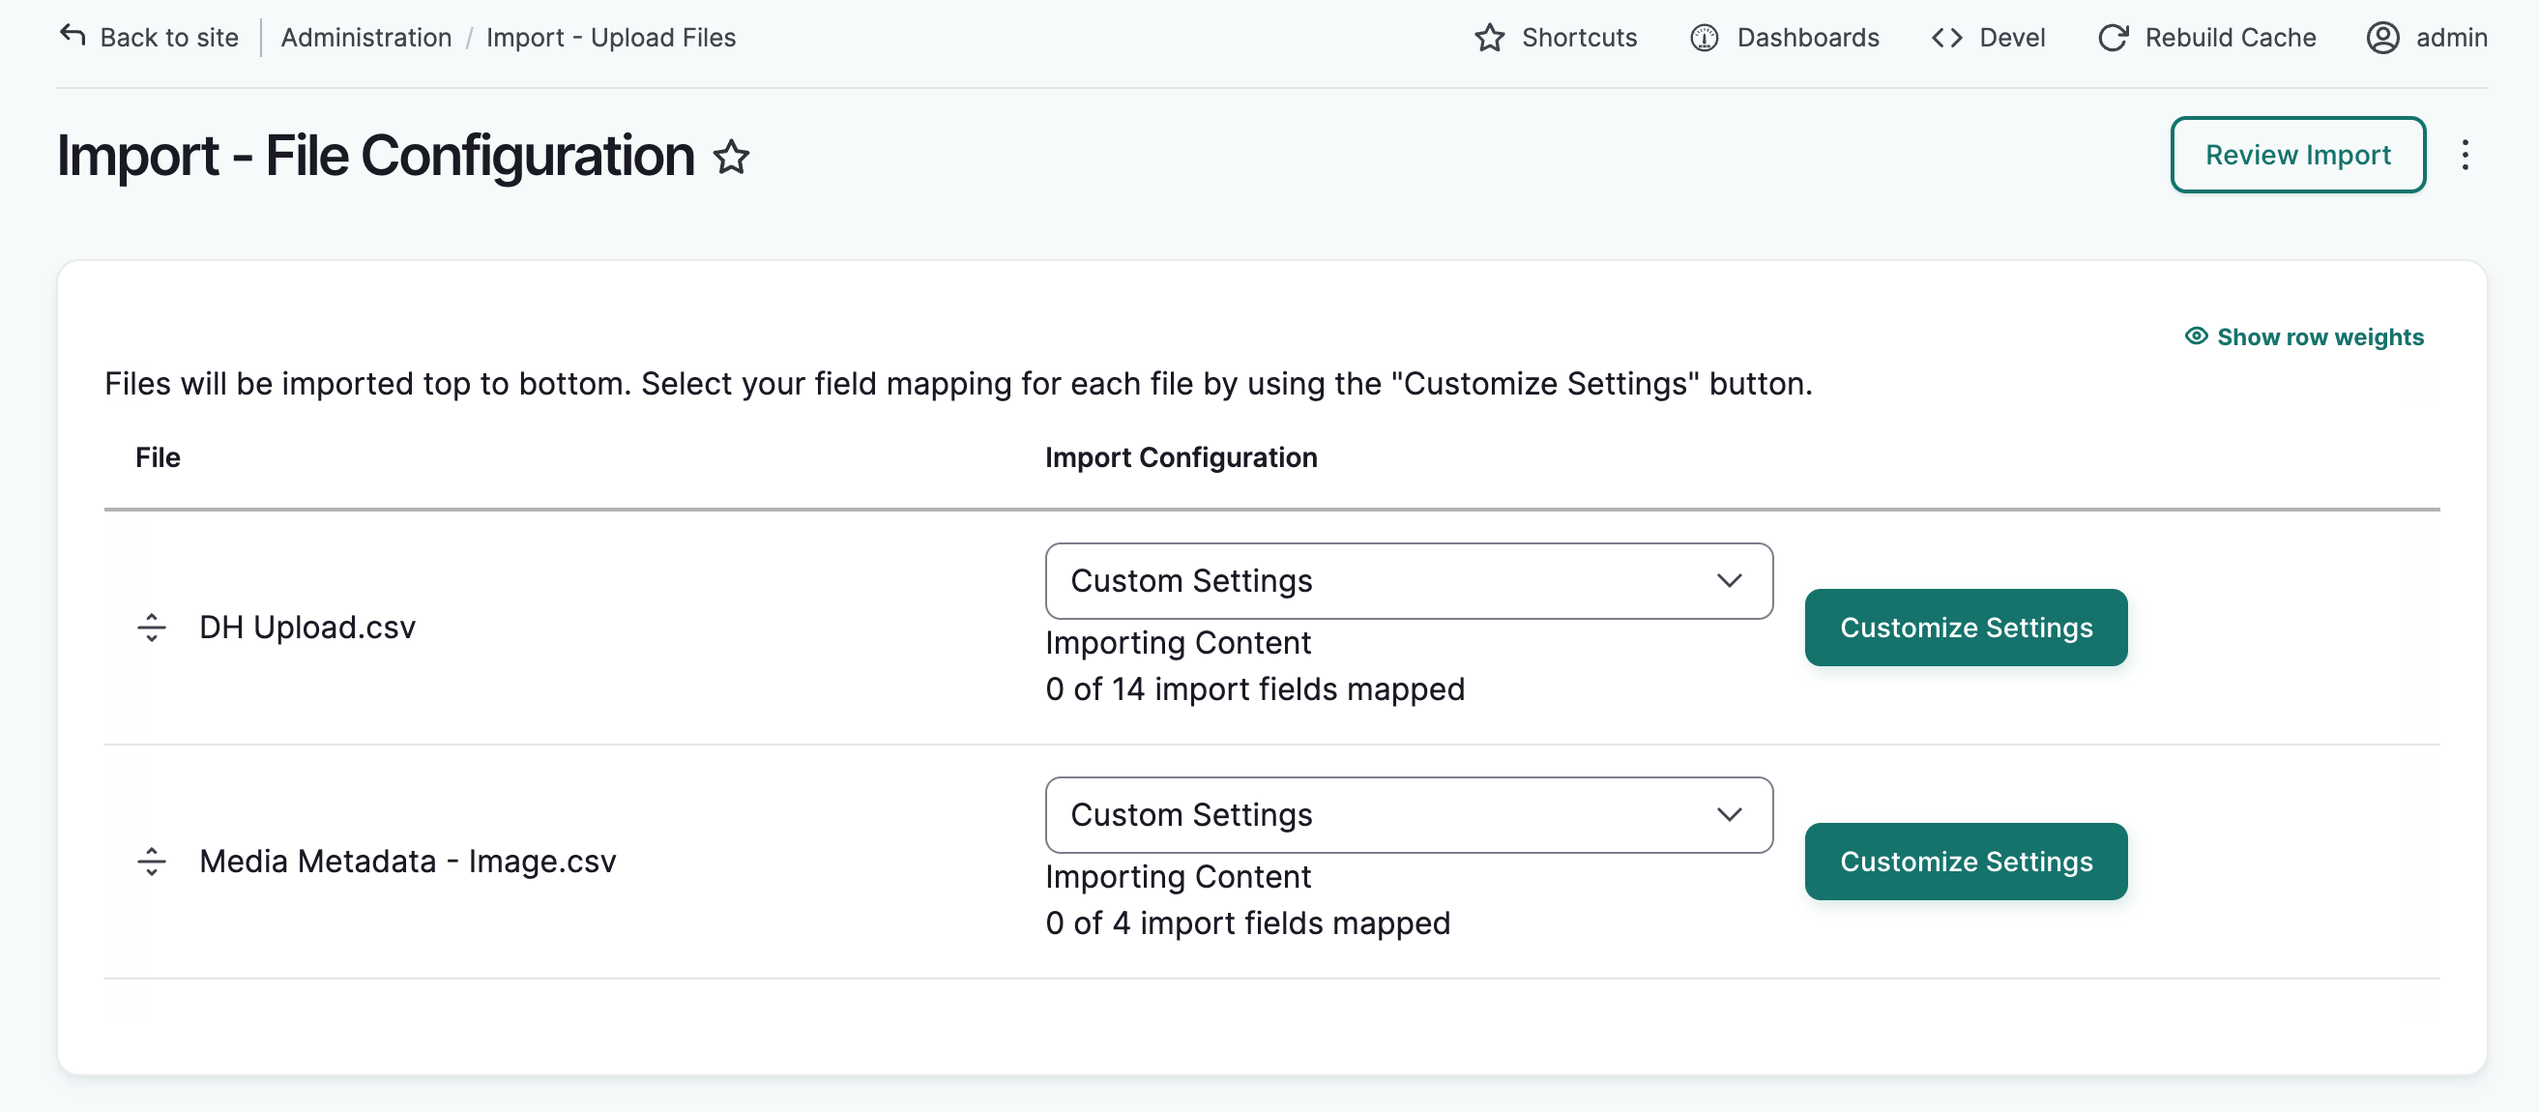
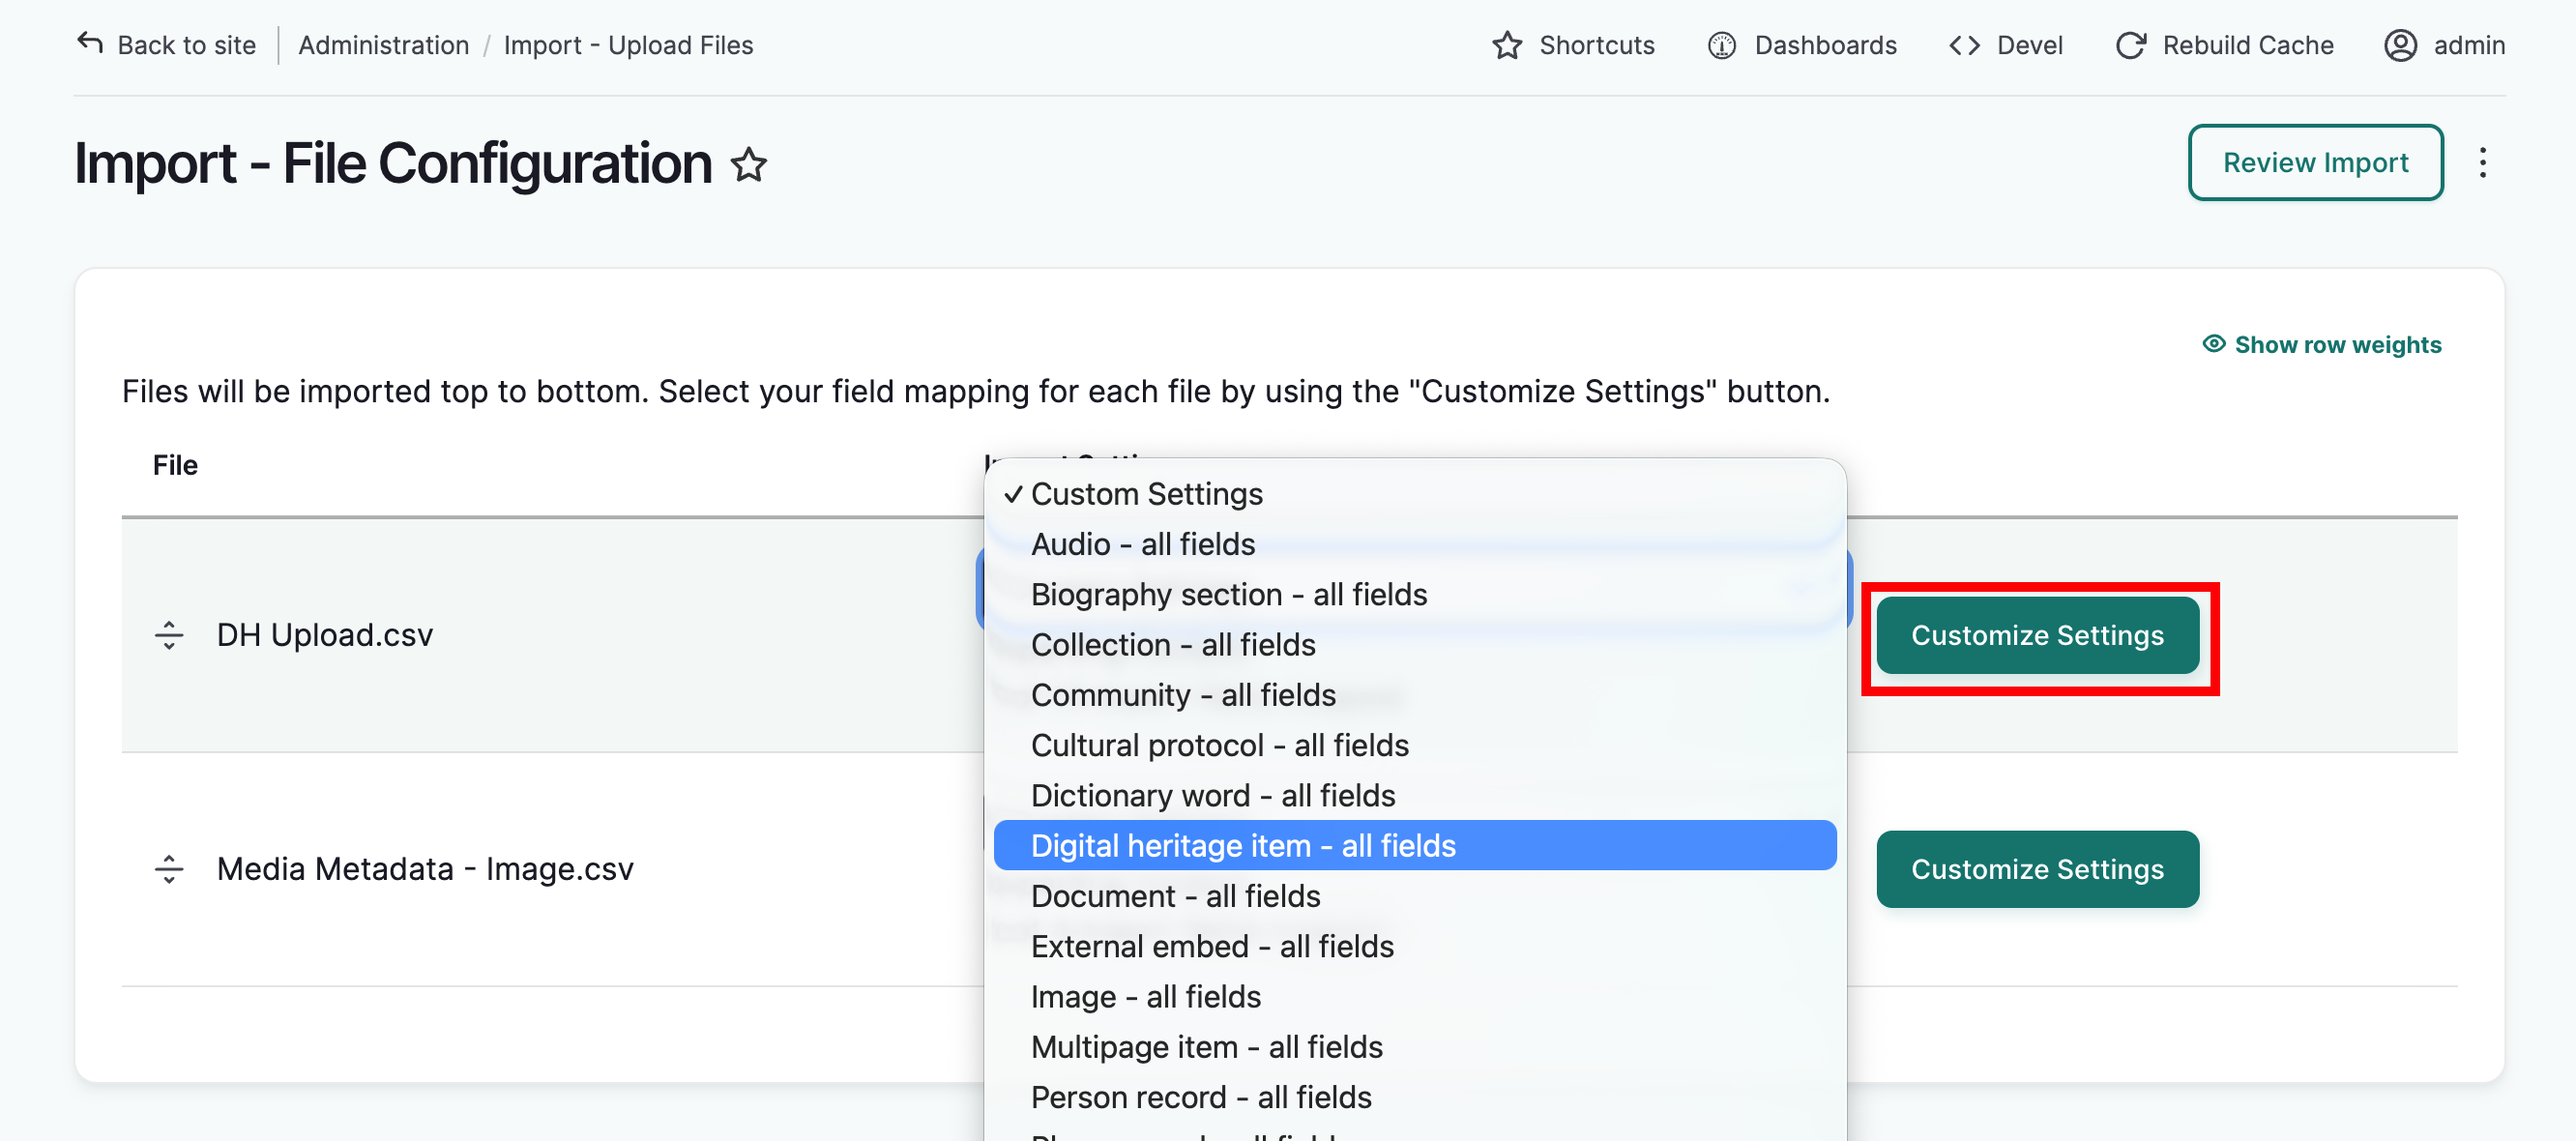
Requested changes

diff --git a/docs/roundtrip/ImportingContent.md b/docs/roundtrip/ImportingContent.md
@@ -8,12 +8,6 @@ tags:
 !!! Roles "User roles" 
     Administrator, Mukurtu manager, Roundtrip manager
 
-In Mukurtu 3, there were many different starting points for import, depending on the content type or media being imported, or if importing multiple content types/media.
-
-Metadata of a single content type went straight to an upload form with no configuration options, and multiple components required quite complex interrelated spreadsheets and media files properly arranged in zipped folders.
-
-Now there is a more flexible single import start point that can handle more complexity.
-
 This article will walk you through the general steps to import a .csv metadata sheet and accompanying media assets. While the basic steps are the same for each content type, there are specifics about each type that are discussed in dedicated articles. Please refer to the article for the content type you are importing for more detail:
 
 - [Import Digital Heritage Items](../roundtrip/DHItems.md) 
@@ -25,7 +19,7 @@ This article will walk you through the general steps to import a .csv metadata s
 - [Import Media](../roundtrip/ImportingNewMedia.md)
 
 !!!Requirement 
-    Users must either be a Mukurtu manager or a Mukurtu Roundtrip manager to access roundtrip tools. Users will only be able to upload according to their protocol permissions. See [Manage User from a Site-wide role](../users/manage-user-accounts-site-wide.md) for more information.
+    Users must either be a Mukurtu manager or a Roundtrip manager to access roundtrip tools. Users will only be able to upload according to their protocol permissions. See [Manage User from a Site-wide role](../users/manage-user-accounts-site-wide.md) for more information.
 
 ## Upload content
 
@@ -33,15 +27,12 @@ To import content, go to `/admin/import` or from the dashboard, select **Import*
 
 ![The dashboard with the import link highlighted.](../_embeds/import-content-01.png)
 
-The import page has two upload fields. The first field is for .csv sheets only. The second field is for media or binary files that are referenced in the csv sheets. You can upload multiple files in each field. 
+The import page has two upload fields. The **metadata files** field is for .csv sheets only. The **media/binary files** field is for media or binary files that are referenced in the csv sheets. You can upload multiple files in each field. 
 
 !!! Requirement
     To upload media, you must upload an accompanying metadata sheet for the media asset that is separate from the content item. See [Importing new media](../roundtrip/ImportingNewMedia.md) for instructions.
 
 1. Under **metadata files** select "choose files." Select the file(s) you would like to upload. 
-
-!!! Tip
-    If you're uploading content with paragraphs or media asset sheets, select the content metadata sheets first, then the paragraphs and media assets metadata.
 
 2. Under **media/binary files** select "choose files." Select the media file(s) you woud like to upload.
 
@@ -50,11 +41,20 @@ Any combination of CSV sheets and supported media assets can be selected. When y
 ![The import page showing two csv spreadsheets and 2 media assets selected for upload](../_embeds/import-content-02.png)
 
 
-### Configure import settings
+## Configure import settings
 
-The file configuration page lists each spreadsheet you've uploaded. If your sheet's columns map to a custom configuration you have already saved, it will be available in the import configuration drop-down menu. If not, select "customize settings" to map your spreadsheet onto the appropriate metadata fields for the content item. If you uploaded multiple spreadsheets, each spreadsheet will need to be configured individually following the steps below.
+The file configuration page lists each spreadsheet you've uploaded. The custom configuration dropdown menu lists several templates that when selected, apply the default import settings for that content. You may want to start with that, and customize it to your needs.
+
+If you have a custom template saved, it will alsoo be listed.
+
+If you are not using a template, you can create customizations from scratch.
+
+Either way, you can customize your settings by selecing "customize settings."
+
+If you uploaded multiple spreadsheets, each spreadsheet will need to be configured individually following the steps below.
 
 ![The file configuration page showing the spreadsheet file name, the import configuration drop down menu and the customize settings button](../_embeds/import-content-03.png)
+
 
 #### Import type
 
@@ -87,14 +87,14 @@ For each column name you wish to map, open the corresponding menu and select the
     Note that you cannot map two columns to the same field. For example, if you have two columns labeled "source," you cannot select "source" twice as a target field.
 
 #### File settings
-When your mapping is complete, scroll down to file settings and make sure that the default settings reflect your spreadsheet. Make any necessary changes to ensure your spreadsheet is read correctly.
+When your mapping is complete, scroll down to file settings and make sure that the default settings reflect your spreadsheet. The default settings are likely fine, but if you know your sheet is formatted differently, make any necessary changes to ensure your spreadsheet is read correctly.
 
 For example, if you are using "||" as a multi-value delimeter, replace  
 ";" with "||" in the *multi-value delimeter* field.
 
 ![The default file settings](../_embeds/import-content-11.png)
 
-#### Import configuration template
+#### Saving an import template
 If you will be uploading other sheets that match these settings, you can save this as a template for future uploads, and these configuration steps won't have to be repeated.
 
 To save a template, set the toggle to green and give your template a descriptive title. When you are done, select "Save." You will be returned to the file configuration page. 
